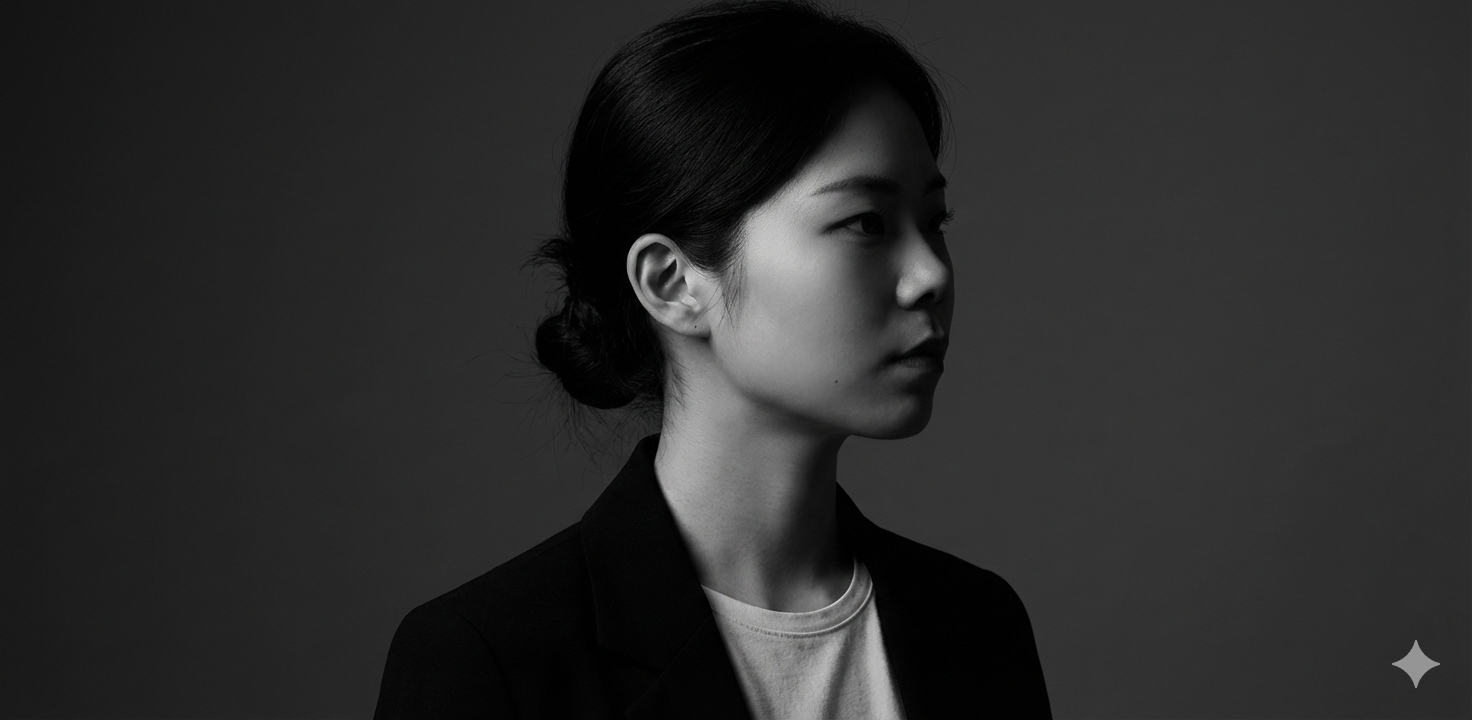
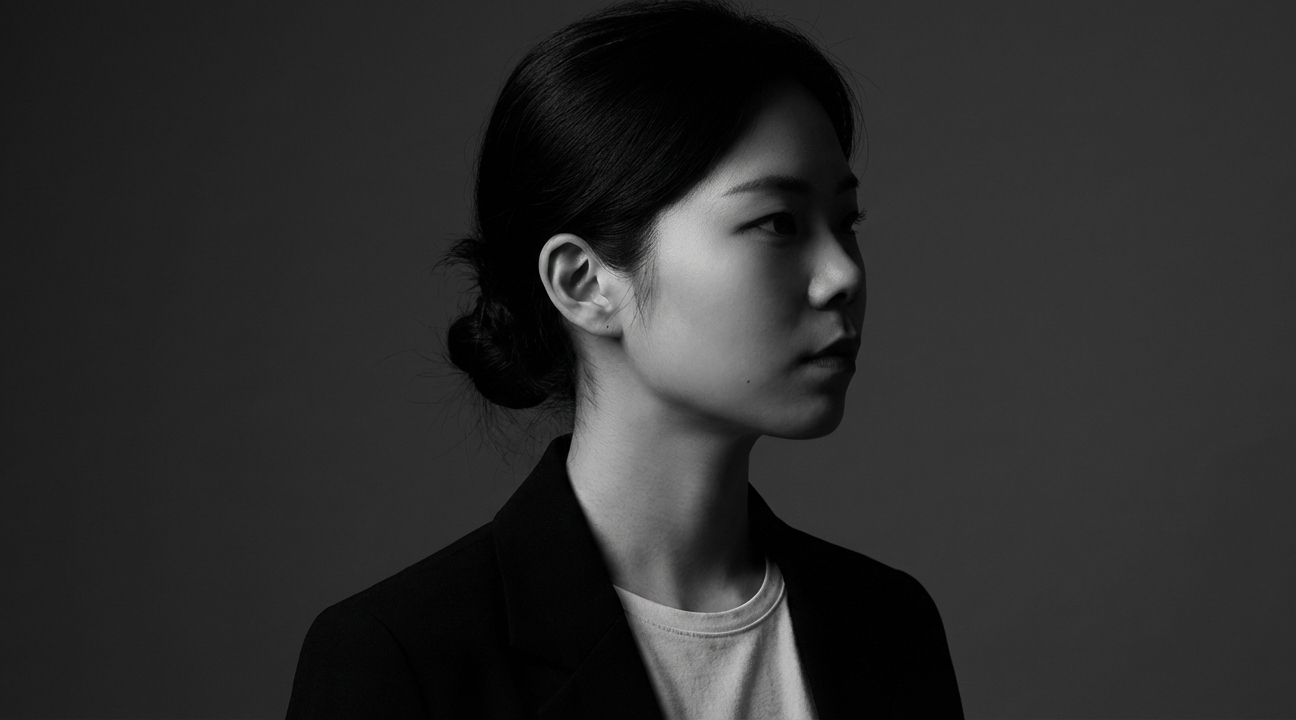
fix: home-index.html

diff --git a/index.html b/index.html
@@ -1,5 +1,6 @@
 <!DOCTYPE html>
 <html lang="ko">
+
 <head>
   <meta charset="UTF-8" />
   <title>Seowon Yoon | Security Engineer</title>
@@ -7,7 +8,9 @@
 
   <!-- Hyperspace 기본 CSS -->
   <link rel="stylesheet" href="assets/css/main.css" />
-  <noscript><link rel="stylesheet" href="assets/css/noscript.css" /></noscript>
+  <noscript>
+    <link rel="stylesheet" href="assets/css/noscript.css" />
+  </noscript>
 
   <!-- Serif Font -->
   <link rel="preconnect" href="https://fonts.googleapis.com">
@@ -38,20 +41,22 @@
       padding: 5px 70px;
       background: #ffffff;
       z-index: 9999;
-      border-bottom: 1px solid rgba(0,0,0,0.06);
+      border-bottom: 1px solid rgba(0, 0, 0, 0.06);
     }
 
     .nav-inner {
       max-width: 1100px;
       margin: 0 auto;
-      padding: 12px 12px;   /* ← 여기서 안전 여백 관리 */
+      padding: 12px 12px;
+      /* ← 여기서 안전 여백 관리 */
     }
 
     .top-nav ul {
       display: flex;
       justify-content: flex-end;
       align-items: center;
-      gap: 24px;                       /* 🔧 메뉴 간격 조절 */
+      gap: 24px;
+      /* 🔧 메뉴 간격 조절 */
       list-style: none;
       margin: 0;
       padding: 0;
@@ -61,10 +66,12 @@
       text-decoration: none;
       color: #8a8a8a;
       font-size: 14px;
-      letter-spacing: -0.02em;   /* 🔧 자간 살짝 압축 */
+      letter-spacing: -0.02em;
+      /* 🔧 자간 살짝 압축 */
       font-family: Arial, Helvetica, sans-serif;
       font-weight: 200;
-      white-space: nowrap;             /* 🔧 CONTACT 줄바꿈 방지 */
+      white-space: nowrap;
+      /* 🔧 CONTACT 줄바꿈 방지 */
     }
 
     .top-nav a.active,
@@ -77,7 +84,8 @@
        ===================== */
     #intro {
       height: 100vh;
-      padding-top: 96px;               /* 🔧 네비 높이 보정 */
+      padding-top: 96px;
+      /* 🔧 네비 높이 보정 */
       display: flex;
       align-items: center;
       justify-content: center;
@@ -86,6 +94,7 @@
     #intro .inner {
       position: relative;
       width: min(1100px, 92vw);
+      height: 100%;
       text-align: center;
     }
 
@@ -94,18 +103,28 @@
        ===================== */
     .hero-name {
       font-family: "Allura", cursive;
-      font-size: 78px;                 /* 🔧 살짝 줄임 */
+      font-size: 78px;
+      /* 🔧 살짝 줄임 */
       font-weight: 500;
-      margin-bottom: 16px;
+      margin-bottom: 12px;
       letter-spacing: 0.01em;
+      position: relative;
+      z-index: 3;
     }
 
     .hero-title {
       font-family: Arial, Helvetica, sans-serif;
-      font-size: 104px;                /* 🔧 줄임 */
+      font-size: 104px;
+      /* 🔧 줄임 */
       font-weight: 400;
-      letter-spacing: 0.075em;         /* 🔧 자간 조정 */
+      letter-spacing: 0.075em;
+      /* 🔧 자간 조정 */
+      margin-top: 250px;
+      /* ✅ 사진 아래로 강제 밀기 */
       margin-bottom: 18px;
+      position: relative;
+      z-index: 2;
+      /* 사진보다 위지만 */
     }
 
     .hero-subtitle {
@@ -119,35 +138,50 @@
        ===================== */
     .hero-image {
       position: absolute;
-      top: 120px;
-      left: 50%;
-      transform: translateX(-50%) rotate(-6deg);
-      width: 260px;
+      top: 160px;
+      left: 0;
+      right: 0;
+      margin: 0 auto;
+      width: 320px;
       opacity: 0.9;
-      z-index: -1;
+      z-index: 1;
     }
 
     /* =====================
        BUTTON (톤 조정)
        ===================== */
+
     .hero-button {
       display: inline-block;
-      padding: 14px 36px;
-      border: 1px solid #d0d0d0;
-      background: #f2f2f2;              /* 🔧 톤 맞춤 */
+      position: relative;
+      z-index: 3;
+      /* 🔥 사진보다 위 */
+      display: inline-block;
+      padding: 14px 40px;
+      border: 1px solid rgba(0, 0, 0, 0.25);
+      background: transparent;
+      /* 🔥 더 미니멀 */
       color: #111;
-      font-size: 14px;
+      font-size: 13px;
       font-family: Arial, Helvetica, sans-serif;
       font-weight: 400;
-      letter-spacing: 0.18em;
+      letter-spacing: 0.22em;
+      /* PORTFOLIO 톤 맞춤 */
+      text-transform: uppercase;
       text-decoration: none;
-      transition: all 0.2s ease;
+      transition:
+        background 0.25s ease,
+        color 0.25s ease,
+        border-color 0.25s ease,
+        transform 0.25s ease;
     }
 
     .hero-button:hover {
       background: #111;
       color: #fff;
       border-color: #111;
+      transform: translateY(-2px);
+      /* 살짝 뜨는 느낌 */
     }
 
     /* =====================
@@ -197,17 +231,42 @@
        RESPONSIVE
        ===================== */
     @media (max-width: 900px) {
-      .hero-name { font-size: 56px; }
-      .hero-title { font-size: 72px; }
-      .hero-image { width: 200px; top: 90px; }
+      .hero-name {
+        font-size: 56px;
+      }
+
+      .hero-title {
+        font-size: 72px;
+      }
+
+      .hero-image {
+        width: 200px;
+        top: 90px;
+      }
     }
 
     @media (max-width: 480px) {
-      .top-nav { padding: 14px 18px; }
-      .top-nav ul { gap: 16px; }
-      .hero-name { font-size: 42px; }
-      .hero-title { font-size: 52px; }
-      .hero-image { display: none; }   /* 모바일에선 사진 제거 */
+      .top-nav {
+        padding: 14px 18px;
+      }
+
+      .top-nav ul {
+        gap: 16px;
+      }
+
+      .hero-name {
+        font-size: 42px;
+      }
+
+      .hero-title {
+        font-size: 52px;
+      }
+
+      .hero-image {
+        display: none;
+      }
+
+      /* 모바일에선 사진 제거 */
     }
   </style>
 </head>
@@ -227,14 +286,14 @@
       </nav>
     </div>
   </header>
-  
+
   <!-- WRAPPER -->
   <div id="wrapper">
     <section id="intro" class="wrapper">
       <div class="inner">
 
         <!-- IMAGE -->
-        <img src="images/Home_1.jpg" alt="Profile" class="hero-image" />
+        <img src="images/Home_1.png" alt="Profile" class="hero-image" />
 
         <!-- TEXT -->
         <h1 class="hero-name">Yoon Seowon</h1>
@@ -261,5 +320,5 @@
   </script>
 
 </body>
-</html>
 
+</html>
